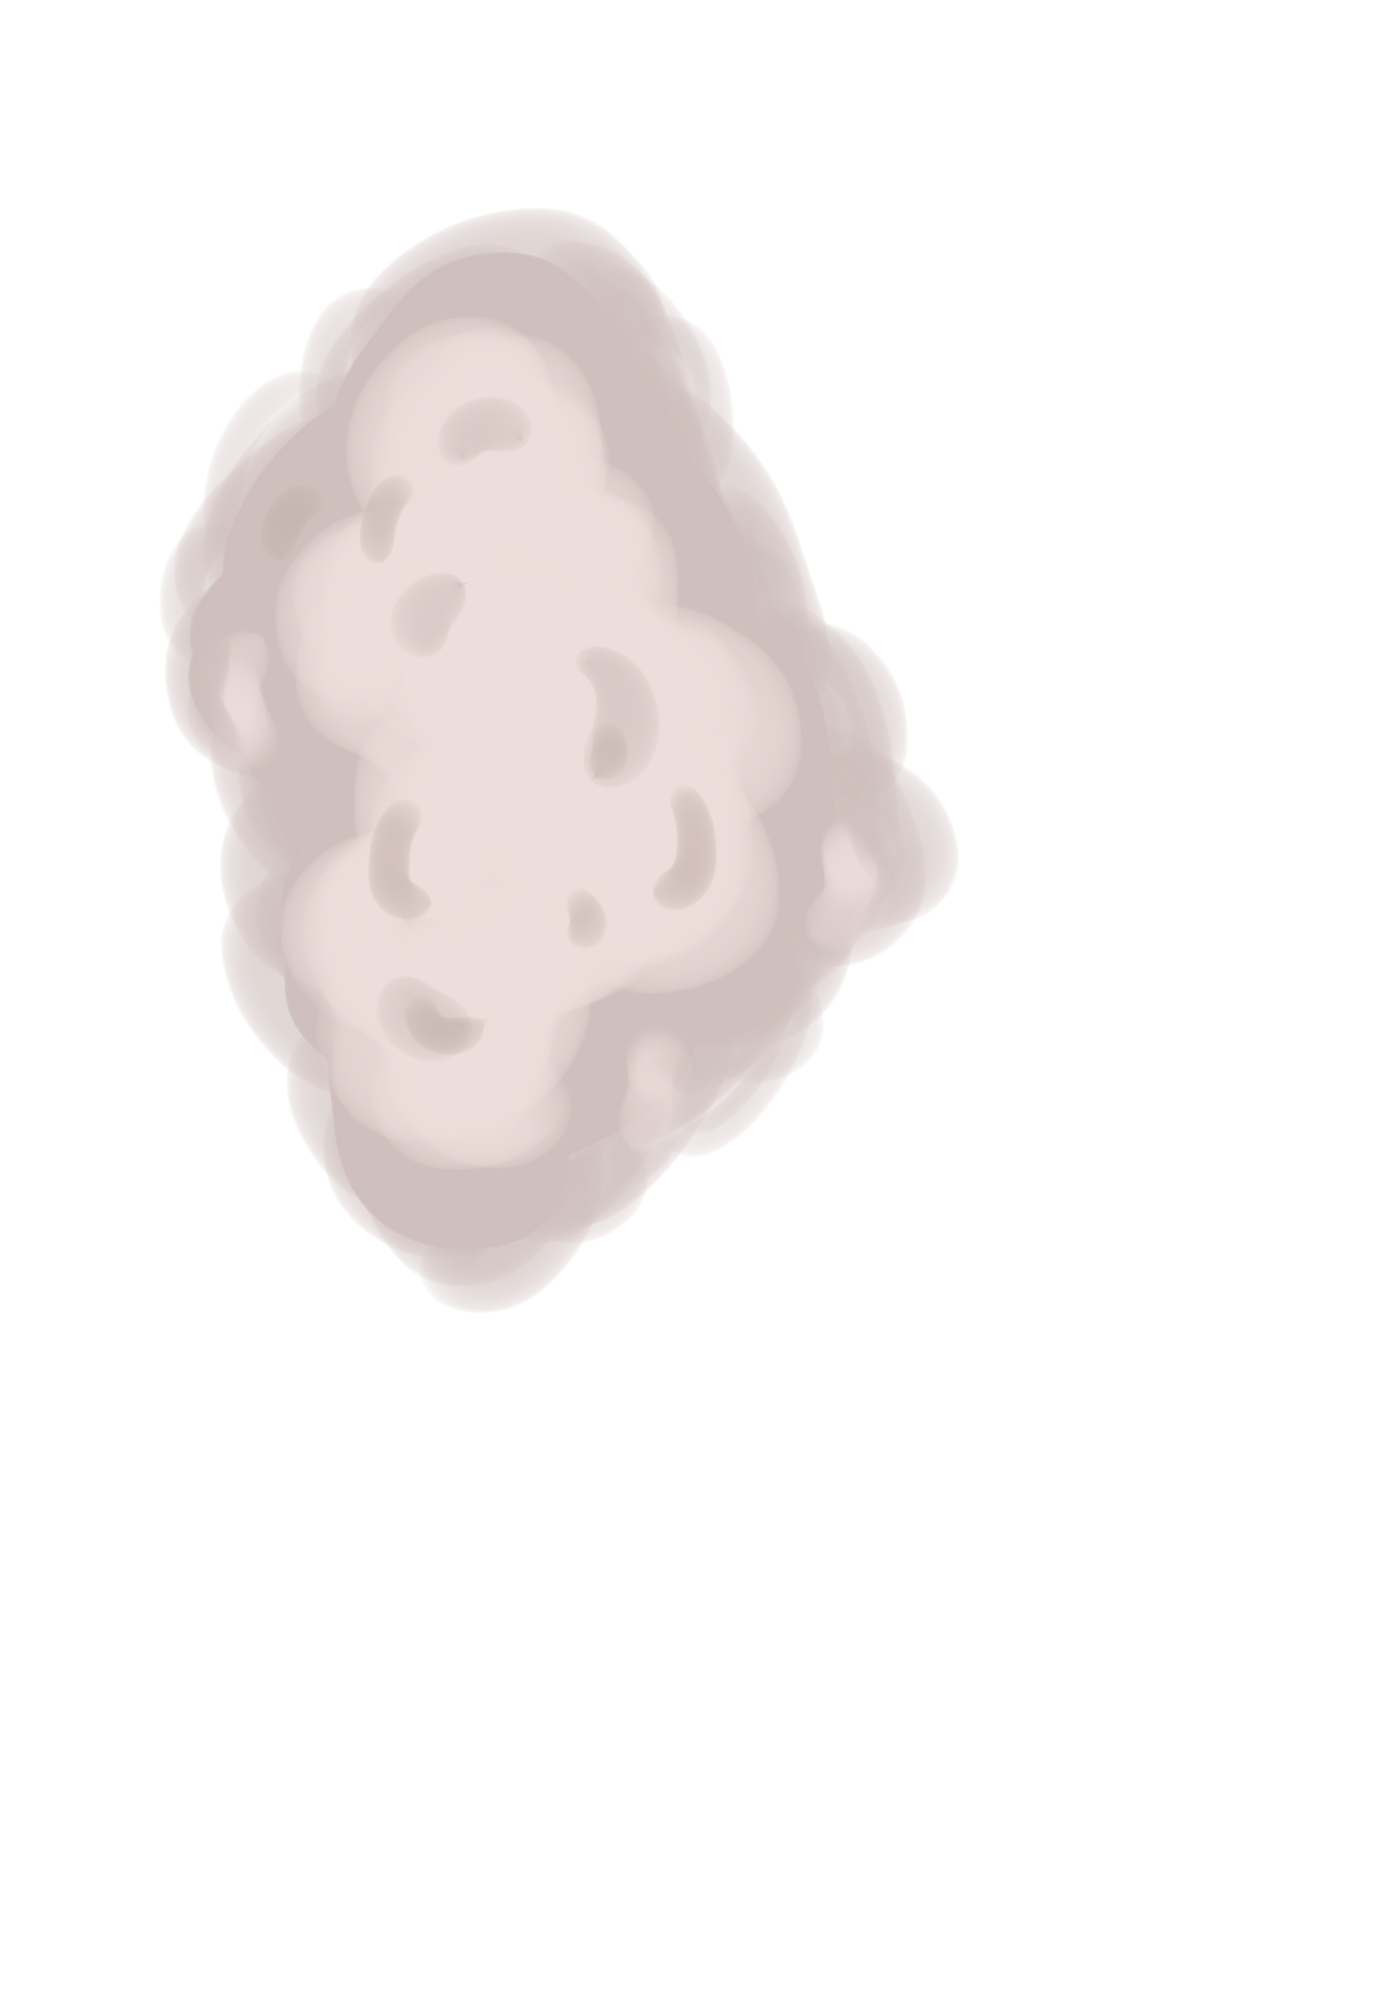
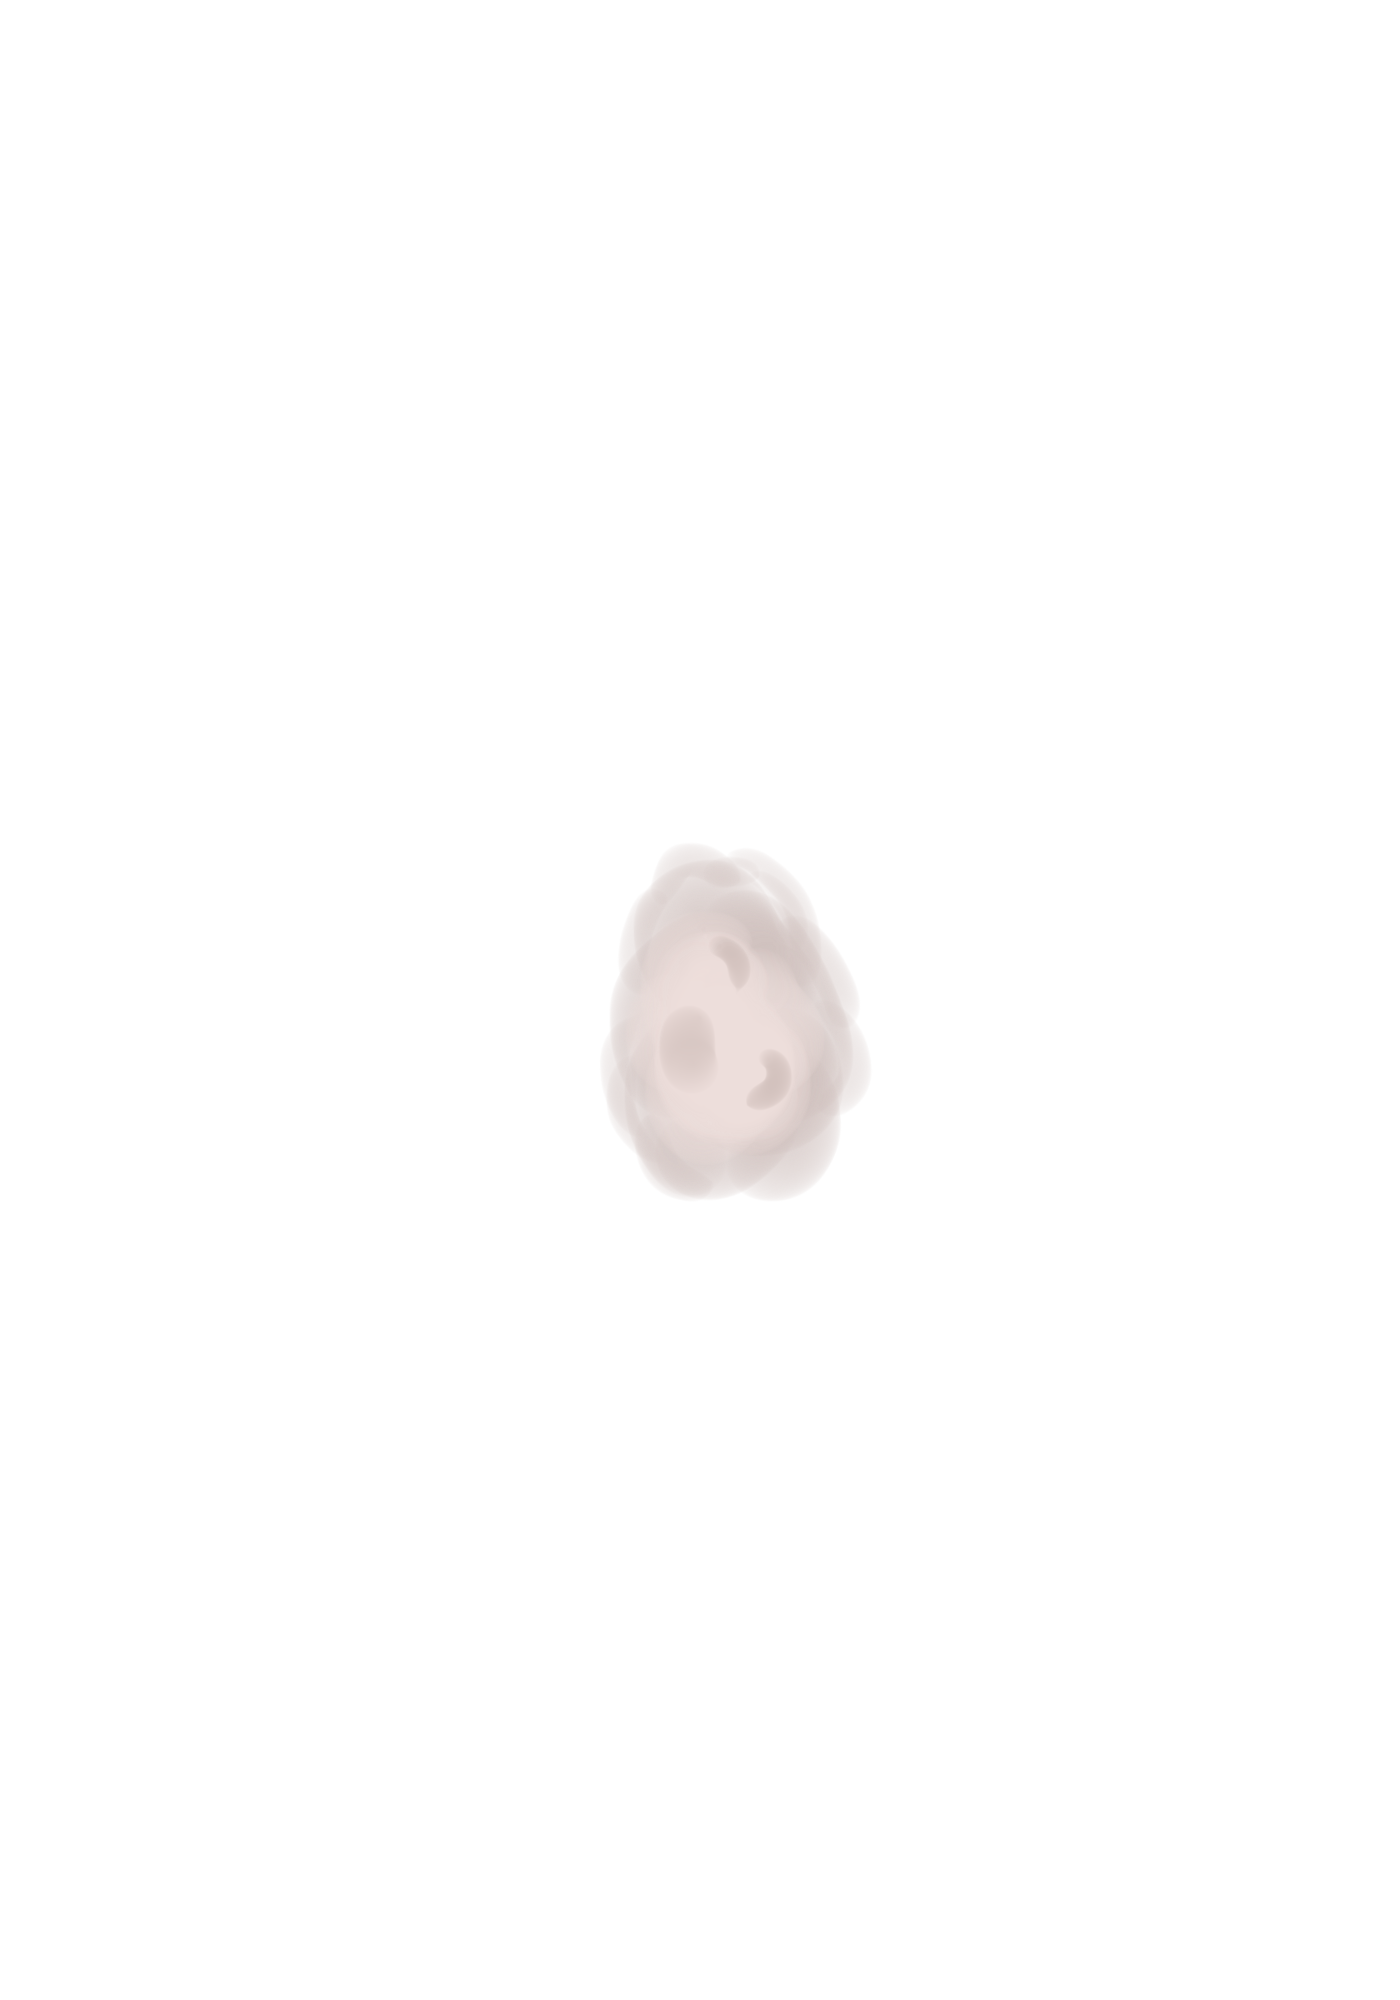
side ways scrolling background

Changed region(s): [[0.1229, 0.093, 0.6757, 0.651]]

diff --git a/Brow Shooter/src/code/GameDisplay.java b/Brow Shooter/src/code/GameDisplay.java
@@ -13,8 +13,9 @@ import fisica.Fisica;
 public class GameDisplay extends PApplet {
 
 	private PImage left_browImg, right_browImg, flame_oneImg, flame_twoImg, flame_threeImg, flame_fourImg;
-	private PImage bg, barImg, cloud;
+	private PImage bg, barImg, cloud, cloud2, cloud3, cloud4, cloud5, cloud6;
 	private PImage bullets1, bullets2, bullets3, bullets4, bullets5;
+	private static Random random = new Random();
 	private FWorld world;
 	private FBox left_brow, right_brow, flame_one, flame_two, flame_three, flame_four;
 	private float bgXPos, bgYPos, cloudXPos, cloudYPos, backYPos;
@@ -41,7 +42,8 @@ public class GameDisplay extends PApplet {
 		flame_twoImg = loadImage("2.png");
 		flame_threeImg = loadImage("3.png");
 		flame_fourImg = loadImage("4.png");
-		bullets1 = loadImage("bullets1.png");
+		//bullets1 = loadImage("bullets1.png");
+		bullets1 = loadImage("superbullet1.png");
 		bullets2 = loadImage("bullets2.png");
 		bullets3 = loadImage("bullets3.png");
 		bullets4 = loadImage("bullets4.png");
@@ -49,6 +51,11 @@ public class GameDisplay extends PApplet {
 		barImg = loadImage("brow bars 1.png");
 		bg = loadImage("map.png");
 		cloud = loadImage("cloud1.png");
+		cloud2 = loadImage("cloud2.png");
+		cloud3 = loadImage("cloud3.png");
+		cloud4 = loadImage("cloud4.png");
+		cloud5 = loadImage("cloud5.png");
+		cloud6 = loadImage("cloud6.png");
 
 		left_browImg.resize(width, height);
 		right_browImg.resize(width, height);
@@ -65,7 +72,13 @@ public class GameDisplay extends PApplet {
 		bullets5.resize(width, height);
 
 		bg.resize((int)(width*1.5), (int)(height*1.5));
-		cloud.resize((int)(width*0.75), (int)(height*0.75));
+		int cloud_resX = width, cloud_resY = height;
+		cloud.resize(cloud_resX, cloud_resY);
+		cloud2.resize(cloud_resX, cloud_resY);
+		cloud3.resize(cloud_resX, cloud_resY);
+		cloud4.resize(cloud_resX, cloud_resY);
+		cloud5.resize(cloud_resX, cloud_resY);
+		cloud6.resize(cloud_resX, cloud_resY);
 
 		bottomImg = loadImage("brow_scissors1.png");
 		topImg = loadImage("brow_scissors2.png");
@@ -80,14 +93,17 @@ public class GameDisplay extends PApplet {
 		background(120);
 
 		image(bg, bgXPos, bgYPos+(0/600f)*height);		
-		image(bg, bgXPos, backYPos-(450/600f)*height);		
+		image(bg, bgXPos, backYPos-(450/600f)*height);
+		PImage[] clouds = {cloud, cloud2, cloud3, cloud4, cloud5, cloud6};
 		if (frameCount % 150 == 125) {
-			cloudXPos = randInt(-50, width);
+			cloudXPos = randInt(0, width);
 			cloudYPos = (-250f/600)*height;
-			image(cloud, cloudXPos, cloudYPos);
+			int rand = randInt(0, clouds.length-1);
+			image(clouds[rand], cloudXPos, cloudYPos);
 		}
 		else
 			image(cloud, cloudXPos, cloudYPos);
+		
 		mussleFire();
 
 		handleShooterMovement();
@@ -191,76 +207,76 @@ public class GameDisplay extends PApplet {
 		float angle = degrees(scissor.getRotation());
 		if (angle < 0) angle += 360f;
 		if (angle > 0 && angle < 90) { // case 1
-			bottomRightScissor = new float[] {scissor.getX()+(3f/400f)*width, scissor.getY()+(59f/600f)*height};
+			bottomRightScissor = new float[] {scissor.getX()+((215-200)/400f)*width, scissor.getY()+((230-200)/600f)*height};
 
-			bottomLeftScissor = new float[]{bottomRightScissor[0]-(18f/400f)*width, bottomRightScissor[1]+(18f/600f)*height};
+			bottomLeftScissor = new float[] {scissor.getX()+((235-200)/400f)*width, scissor.getY()+((215-200)/600f)*height};
 
-			topLeftScissor = new float[]{bottomLeftScissor[0]-(57f/400f)*width, bottomLeftScissor[1]-(43f/600f)*height};
+			topLeftScissor = new float[] {scissor.getX()+((169-200)/400f)*width, scissor.getY()+((171-200)/600f)*height};
 
-			topRightScissor = new float[]{topLeftScissor[0]+(4f/400f)*width, topLeftScissor[1]-(8f/600f)*height};
+			topRightScissor = new float[] {scissor.getX()+((163-200)/400f)*width, scissor.getY()+((179-200)/600f)*height};
 		}
 		else if (Math.abs(angle) <= 10) { // case 2
-			bottomRightScissor = new float[] {scissor.getX()+(36f/400f)*width, scissor.getY()+(71f/600f)*height};
+			bottomRightScissor = new float[] {scissor.getX()+((232-200)/400f)*width, scissor.getY()+((207-200)/600f)*height};
 
-			bottomLeftScissor = new float[] {scissor.getX()+(41f/400f)*width, scissor.getY()+(45f/600f)*height};
+			bottomLeftScissor = new float[] {scissor.getX()+((242-200)/400f)*width, scissor.getY()+((184-200)/600f)*height};
 
-			topLeftScissor = new float[] {scissor.getX()+(-36f/400f)*width, scissor.getY()+(62f/600f)*height};
+			topLeftScissor = new float[] {scissor.getX()+((159-200)/400f)*width, scissor.getY()+((200-200)/600f)*height};
 
-			topRightScissor = new float[] {scissor.getX()+(-36f/400f)*width, scissor.getY()+(71f/600f)*height};
+			topRightScissor = new float[] {scissor.getX()+((160-200)/400f)*width, scissor.getY()+((209-200)/600f)*height};
 		}
 		else if (Math.abs(90-angle) <= 10) { // case 3
-			bottomRightScissor = new float[] {scissor.getX()+(-73f/400f)*width, scissor.getY()+(36f/600f)*height};
+			bottomRightScissor = new float[] {scissor.getX()+((187-200)/400f)*width, scissor.getY()+((229-200)/600f)*height};
 
-			bottomLeftScissor = new float[] {scissor.getX()+(-49f/400f)*width, scissor.getY()+(43f/600f)*height};
+			bottomLeftScissor = new float[] {scissor.getX()+((214-200)/400f)*width, scissor.getY()+((241-200)/600f)*height};
 
-			topLeftScissor = new float[] {scissor.getX()+(-67f/400f)*width, scissor.getY()+(63f/600f)*height};
+			topLeftScissor = new float[] {scissor.getX()+((198-200)/400f)*width, scissor.getY()+((159-200)/600f)*height};
 
-			topRightScissor = new float[] {scissor.getX()+(-72f/400f)*width, scissor.getY()+(-36f/600f)*height};
+			topRightScissor = new float[] {scissor.getX()+((188-200)/400f)*width, scissor.getY()+((158-200)/600f)*height};
 		}
 		else if (angle > 90 && angle < 180) { // case 4
-			bottomRightScissor = new float[] {scissor.getX()+(-76f/400f)*width, scissor.getY()+(-31f/600f)*height};
+			bottomRightScissor = new float[] {scissor.getX()+((170-200)/400f)*width, scissor.getY()+((212-200)/600f)*height};
 
-			bottomLeftScissor = new float[] {scissor.getX()+((134-200)/400f)*width, scissor.getY()+((195-200)/600f)*height};
+			bottomLeftScissor = new float[] {scissor.getX()+((179-200)/400f)*width, scissor.getY()+((239-200)/600f)*height};
 
-			topLeftScissor = new float[] {scissor.getX()+((179-200)/400f)*width, scissor.getY()+((128-200)/600f)*height};
+			topLeftScissor = new float[] {scissor.getX()+((226-200)/400f)*width, scissor.getY()+((169-200)/600f)*height};
 
-			topRightScissor = new float[] {scissor.getX()+((173-200)/400f)*width, scissor.getY()+((124-200)/600f)*height};
+			topRightScissor = new float[] {scissor.getX()+((219-200)/400f)*width, scissor.getY()+((163-200)/600f)*height};
 		}
 		else if (Math.abs(angle-180) <= 10) { //case 5
-			bottomRightScissor = new float[] {scissor.getX()+((163-200)/400f)*width, scissor.getY()+((126-200)/600f)*height};
+			bottomRightScissor = new float[] {scissor.getX()+((167-200)/400f)*width, scissor.getY()+((188-200)/600f)*height};
 
-			bottomLeftScissor = new float[] {scissor.getX()+((153-200)/400f)*width, scissor.getY()+((148-200)/600f)*height};
+			bottomLeftScissor = new float[] {scissor.getX()+((153-200)/400f)*width, scissor.getY()+((209-200)/600f)*height};
 
-			topLeftScissor = new float[] {scissor.getX()+((234-200)/400f)*width, scissor.getY()+((135-200)/600f)*height};
+			topLeftScissor = new float[] {scissor.getX()+((236-200)/400f)*width, scissor.getY()+((197-200)/600f)*height};
 
-			topRightScissor = new float[] {scissor.getX()+((234-200)/400f)*width, scissor.getY()+((127-200)/600f)*height};
+			topRightScissor = new float[] {scissor.getX()+((236-200)/400f)*width, scissor.getY()+((189-200)/600f)*height};
 		}
 		else if (angle > 180 && angle < 270) { // case 6
-			bottomRightScissor = new float[] {scissor.getX()+((223-200)/400f)*width, scissor.getY()+((122-200)/600f)*height};
+			bottomRightScissor = new float[] {scissor.getX()+((184-200)/400f)*width, scissor.getY()+((168-200)/600f)*height};
 
-			bottomLeftScissor = new float[] {scissor.getX()+((200-200)/400f)*width, scissor.getY()+((132-200)/600f)*height};
+			bottomLeftScissor = new float[] {scissor.getX()+((158-200)/400f)*width, scissor.getY()+((177-200)/600f)*height};
 
-			topLeftScissor = new float[] {scissor.getX()+((269-200)/400f)*width, scissor.getY()+((177-200)/600f)*height};
+			topLeftScissor = new float[] {scissor.getX()+((227-200)/400f)*width, scissor.getY()+((225-200)/600f)*height};
 
-			topRightScissor = new float[] {scissor.getX()+((274-200)/400f)*width, scissor.getY()+((173-200)/600f)*height};
+			topRightScissor = new float[] {scissor.getX()+((235-200)/400f)*width, scissor.getY()+((218-200)/600f)*height};
 		}
 		else if (Math.abs(angle-270) <= 10) { // case 7
-			bottomRightScissor = new float[] {scissor.getX()+(73f/400f)*width, scissor.getY()+(-37f/600f)*height};
+			bottomRightScissor = new float[] {scissor.getX()+((211-200)/400f)*width, scissor.getY()+((166-200)/600f)*height};
 
-			bottomLeftScissor = new float[] {scissor.getX()+(48f/400f)*width, scissor.getY()+(-48f/600f)*height};
+			bottomLeftScissor = new float[] {scissor.getX()+((183-200)/400f)*width, scissor.getY()+((154-200)/600f)*height};
 
-			topLeftScissor = new float[] {scissor.getX()+(65f/400f)*width, scissor.getY()+(33f/600f)*height};
+			topLeftScissor = new float[] {scissor.getX()+((203-200)/400f)*width, scissor.getY()+((237-200)/600f)*height};
 
-			topRightScissor = new float[] {scissor.getX()+(71f/400f)*width, scissor.getY()+(34f/600f)*height};
+			topRightScissor = new float[] {scissor.getX()+((211-200)/400f)*width, scissor.getY()+((237-200)/600f)*height};
 		}
 		else { // case 8
-			bottomRightScissor = new float[] {scissor.getX()+(74f/400f)*width, scissor.getY()+(25f/600f)*height};
+			bottomRightScissor = new float[] {scissor.getX()+((229-200)/400f)*width, scissor.getY()+((184-200)/600f)*height};
 
-			bottomLeftScissor = new float[] {scissor.getX()+(65f/400f)*width, scissor.getY()+(1f/600f)*height};
+			bottomLeftScissor = new float[] {scissor.getX()+((218-200)/400f)*width, scissor.getY()+((158-200)/600f)*height};
 
-			topLeftScissor = new float[] {scissor.getX()+(19f/400f)*width, scissor.getY()+(69f/600f)*height};
+			topLeftScissor = new float[] {scissor.getX()+((174-200)/400f)*width, scissor.getY()+((227-200)/600f)*height};
 
-			topRightScissor = new float[] {scissor.getX()+(25f/400f)*width, scissor.getY()+(73f/600f)*height};
+			topRightScissor = new float[] {scissor.getX()+((178-200)/400f)*width, scissor.getY()+((232-200)/600f)*height};
 		}
 
 		float[][] polyBullet = {topLeftBullet, bottomRightBullet, topRightBullet, bottomLeftBullet};
@@ -369,8 +385,7 @@ public class GameDisplay extends PApplet {
 	}
 
 	public static int randInt(int min, int max) {
-		Random rand = new Random();
-		int randomNum = rand.nextInt((max - min) + 1) + min;
+		int randomNum = random.nextInt((max - min) + 1) + min;
 		return randomNum;
 	}
 
@@ -424,6 +439,17 @@ public class GameDisplay extends PApplet {
 		float y = flame_one.getY();
 		float scale = (1f/600)*height;
 		float cloudscale = (3.2f/600)*height;
+		
+		float x_scale = scale/6;
+		
+		if (prevXPos <= x) {
+			bgXPos -= (x-prevXPos)*x_scale;
+			cloudXPos -= (x-prevXPos)*x_scale;
+		}		
+		else if (prevXPos >= x) {
+			bgXPos += (prevXPos-x)*x_scale;
+			cloudXPos += (prevXPos-x)*x_scale;
+		}
 
 		float bgOffset = (450f/600)*height;
 		if (switchBg && Math.abs(backYPos-(-0.25f*height+bgOffset)) <= 2*scale) {
@@ -726,14 +752,14 @@ public class GameDisplay extends PApplet {
 		//System.out.println("Bullet 2last "+bullets.get(bullets.size()-2).getX()+" "+bullets.get(bullets.size()-2).getY());
 		//System.out.println("Bullet 1last "+bullets.get(bullets.size()-1).getX()+" "+bullets.get(bullets.size()-1).getY()+"\n");
 		//transformBrow();
-		if (!isTransformed) {
+		/*if (!isTransformed) {
 			transformBrow();
 			isTransformed = true;
 		}
 		else {
 			transformBrow();
 			isTransformed = false;
-		}
+		}*/
 	}
 
 }

diff --git a/Brow Shooter/src/testing/ScissorCollisionData.java b/Brow Shooter/src/testing/ScissorCollisionData.java
@@ -9,47 +9,53 @@ import processing.core.PImage;
 public class ScissorCollisionData extends PApplet {
 	
 	/*
+	 * Case 1:
+	 * C - (215, 230)
+	 * D - (235, 215)
+	 * B - (169, 171)	
+	 * A - (163, 179)
+	 * 
 	 * Case 2:
-	 * C - (236, 271)
-	 * D - (241, 245)
-	 * B - (164, 262)
-	 * A - (164, 271)
+	 * C - (232, 207)
+	 * D - (242, 184)
+	 * B - (159, 200)
+	 * A - (160, 209)
 	 * 
 	 * Case 3:
-	 * C - (127, 236)
-	 * D - (151, 243)
-	 * B - (133, 163)
-	 * A - (128, 164)
+	 * C - (187, 229)
+	 * D - (214, 241)
+	 * B - (198, 159)
+	 * A - (188, 158)
 	 * 
 	 * Case 4:
-	 * C - (124, 169)
-	 * D - (134, 195)
-	 * B - (179, 128)
-	 * A - (173, 124)
+	 * C - (170, 212)
+	 * D - (179, 239)
+	 * B - (226, 169)
+	 * A - (219, 163)
 	 * 
 	 * Case 5:
-	 * C - (163, 126)
-	 * D - (153, 148)
-	 * B - (234, 135)
-	 * A - (234, 127)
+	 * C - (167, 188)
+	 * D - (153, 209)
+	 * B - (236, 197)
+	 * A - (236, 189)
 	 * 
 	 * Case 6:
-	 * C - (223, 122)
-	 * D - (200, 132)
-	 * B - (269, 177)
-	 * A - (274, 173)
+	 * C - (184, 168)
+	 * D - (158, 177)
+	 * B - (227, 225)
+	 * A - (235, 218)
 	 * 
 	 * Case 7:
-	 * C - (273, 163)
-	 * D - (248, 152)
-	 * B - (265, 233)
-	 * A - (271, 234)
+	 * C - (211, 166)
+	 * D - (183, 154)
+	 * B - (203, 237)
+	 * A - (211, 237)
 	 * 
 	 * Case 8:
-	 * C - (274, 225)
-	 * D - (265, 201)
-	 * B - (219, 269)
-	 * A - (225, 273)
+	 * C - (229, 184)
+	 * D - (218, 158)
+	 * B - (174, 227)
+	 * A - (178, 232)
 	 */
 	
 	private PImage bottomImg, topImg;
@@ -58,8 +64,8 @@ public class ScissorCollisionData extends PApplet {
 	public void setup() {
 		background(0);
 		size(400, 600);
-		bottomImg = loadImage("brow_scissors/1.png");
-		topImg = loadImage("brow_scissors/2.png");
+		bottomImg = loadImage("brow_scissors1.png");
+		topImg = loadImage("brow_scissors2.png");
 
 		bottomImg.resize(width/4, height/4);
 		topImg.resize(width/4,  height/4);
@@ -68,17 +74,19 @@ public class ScissorCollisionData extends PApplet {
 		world = new FWorld();
 		world.setGravity(0, 0);
 		
+		float angle = 315f;
+		
 		FBox bottomTemp = new FBox(10, 10);
 		bottomTemp.setStatic(true);
 		bottomTemp.attachImage(bottomImg);
 		bottomTemp.setPosition(200, 200);
-		bottomTemp.setRotation(radians(-90));
+		bottomTemp.setRotation(radians(angle));
 
 		FBox topTemp = new FBox(10, 10);
 		topTemp.setStatic(true);
 		topTemp.attachImage(topImg);
 		topTemp.setPosition(200, 200);
-		topTemp.setRotation(radians(-90));
+		topTemp.setRotation(radians(angle));
 		
 		world.add(bottomTemp);
 		world.add(topTemp);
